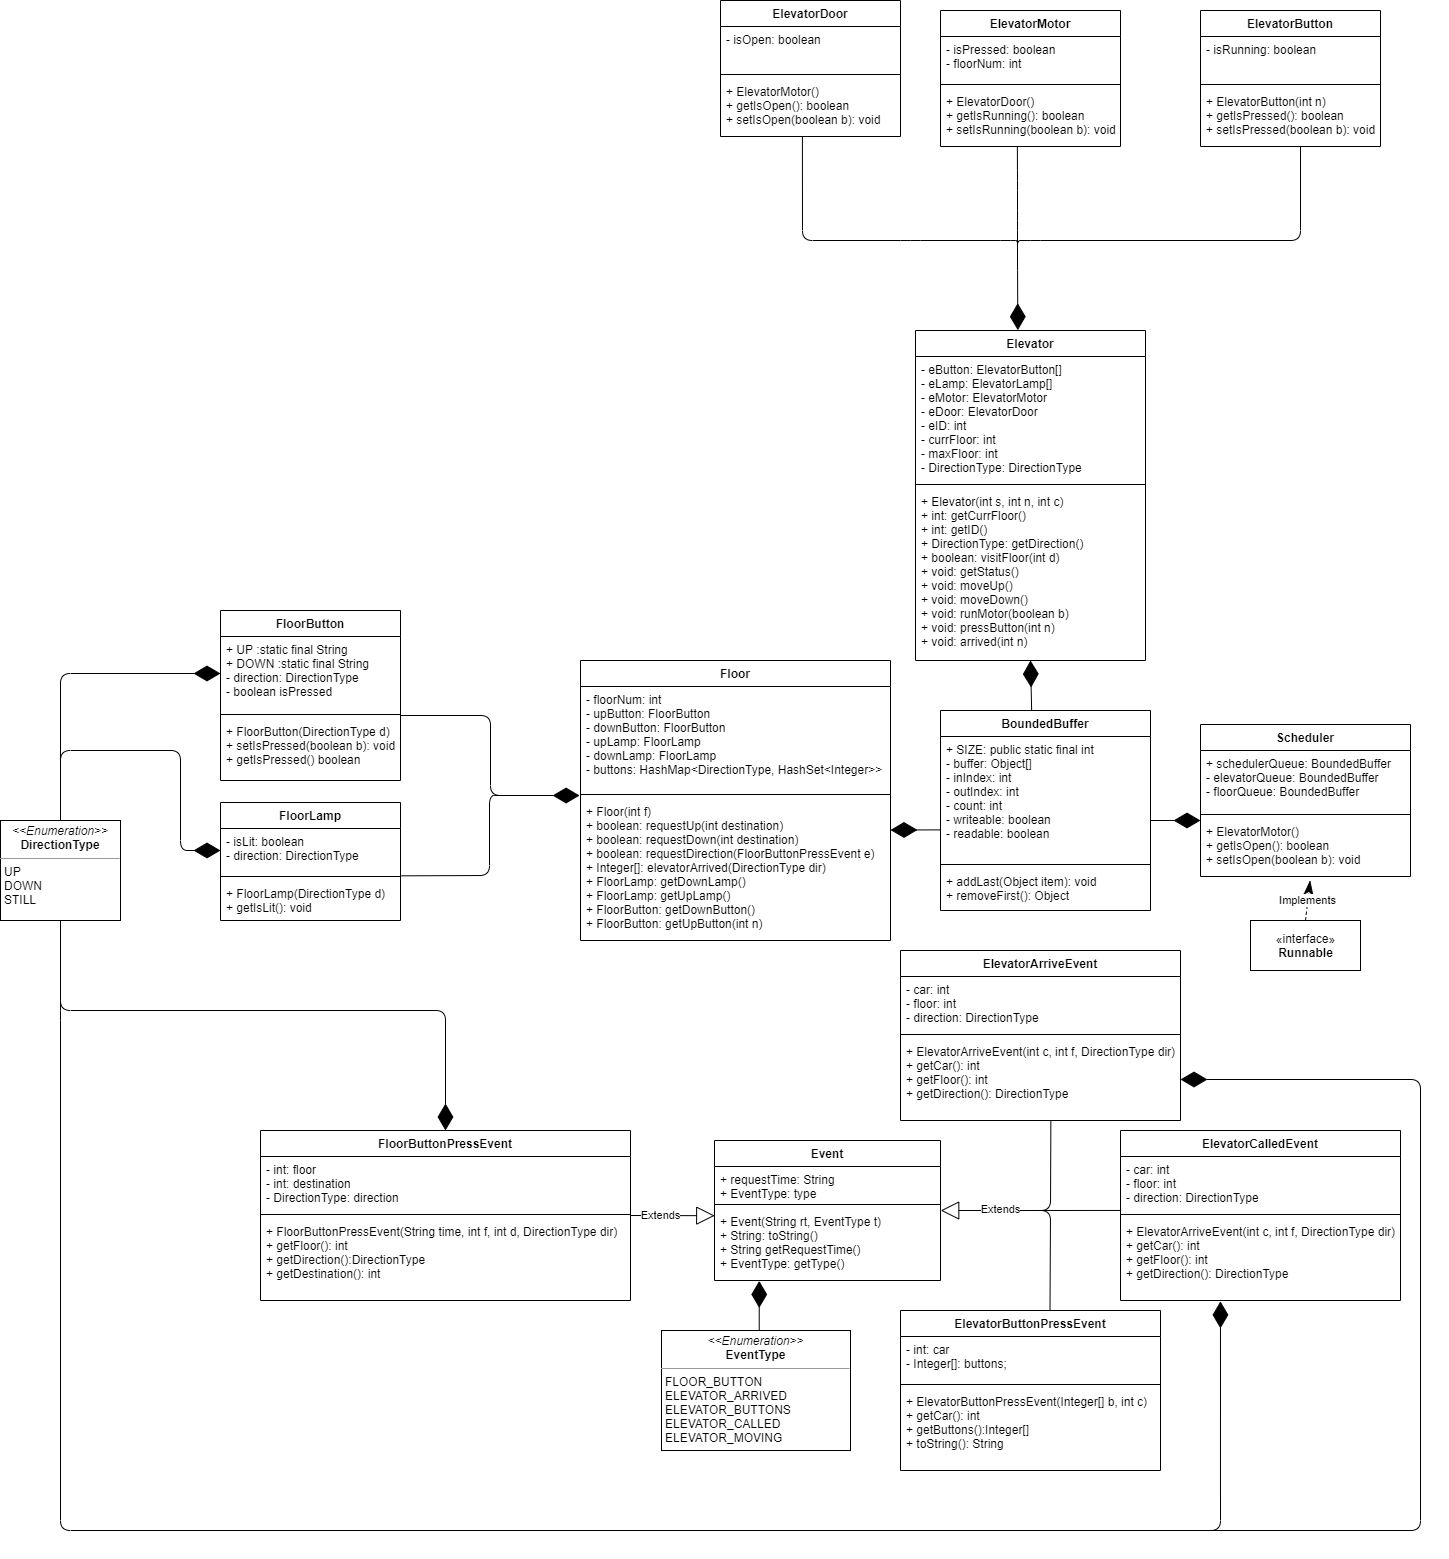
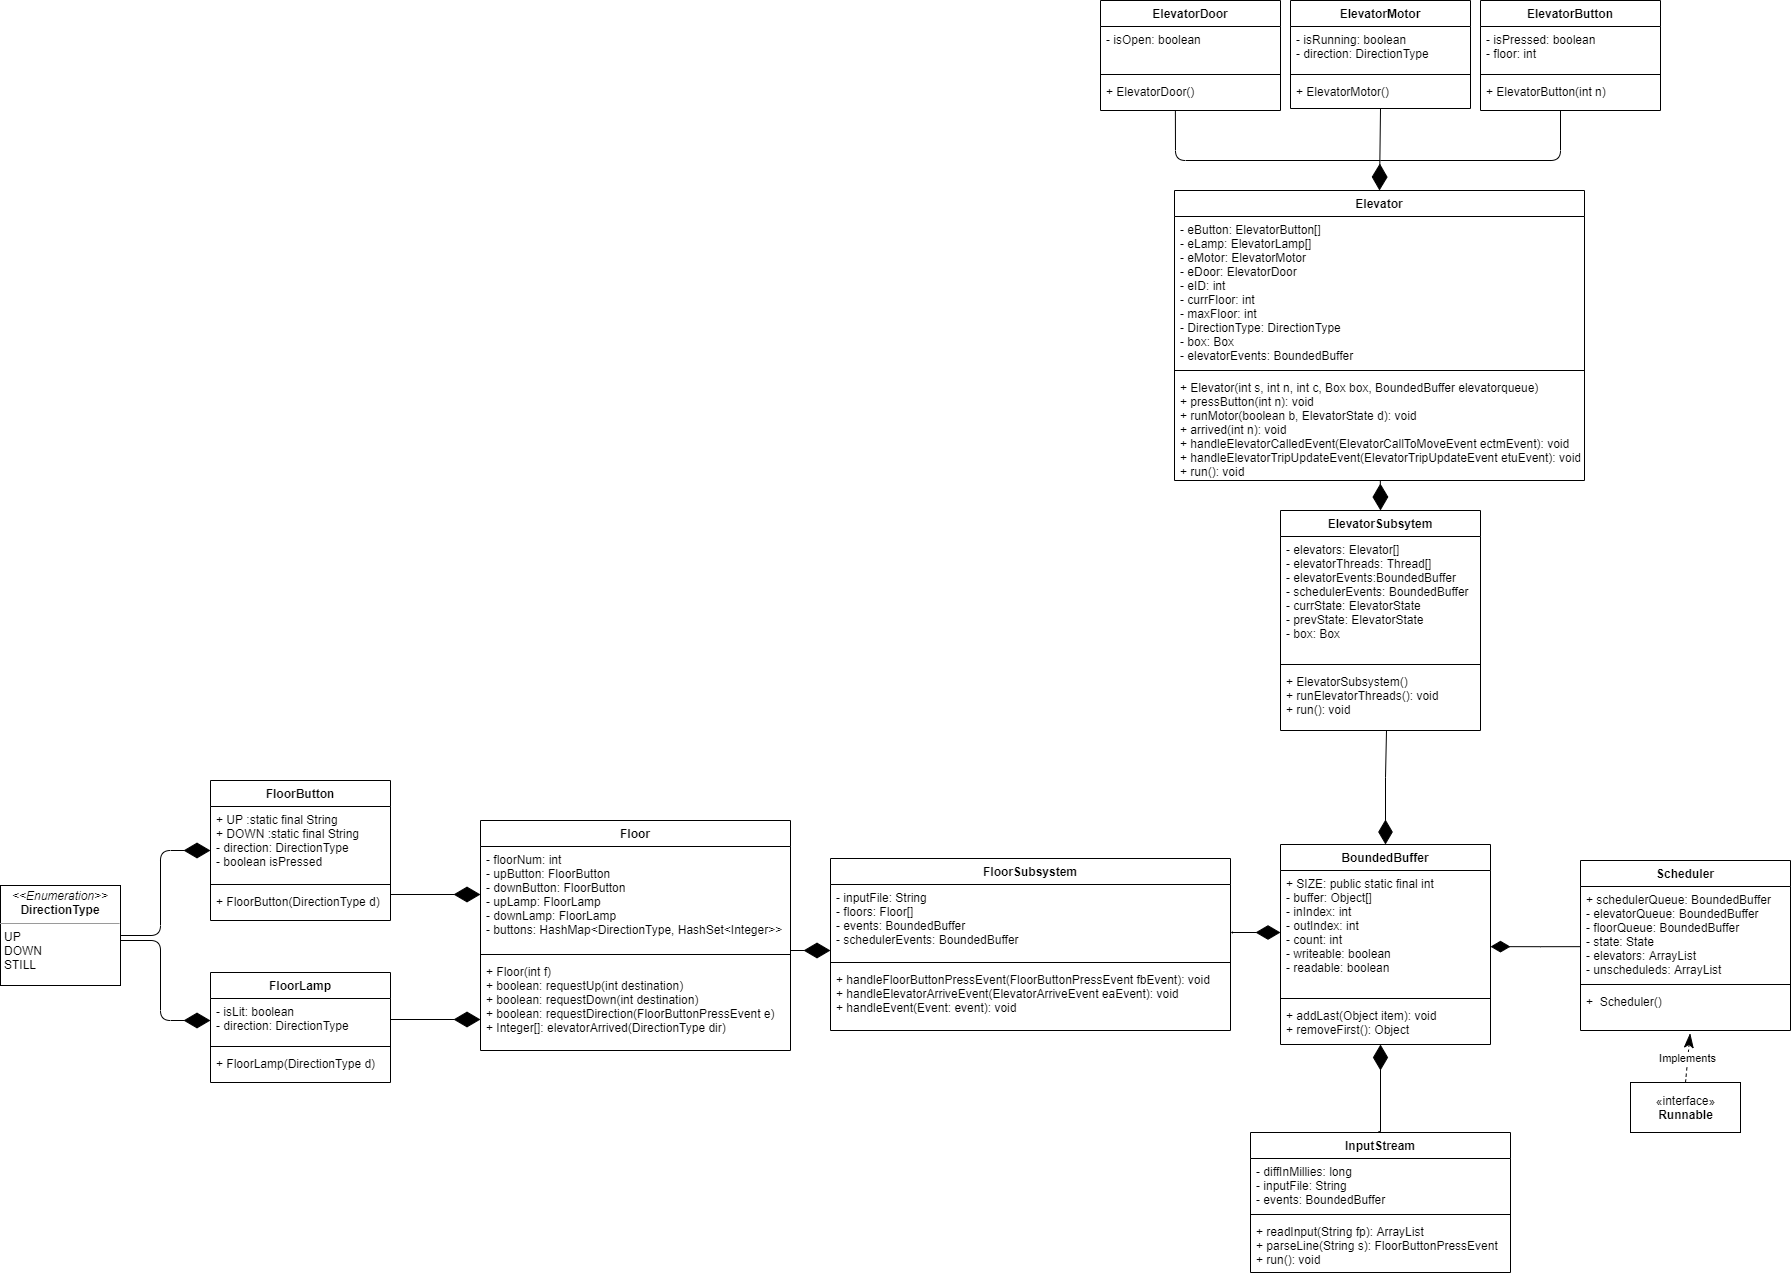
Cleanup

diff --git a/src/main/Project.java b/src/main/Project.java
@@ -6,10 +6,7 @@ import floor.InputStream;
 import scheduler.BoundedBuffer;
 import scheduler.Scheduler;
 
-public class Iteration1 {
-
-    private final static String testFile = "TestComm.txt";
-
+public class Project {
     public static void main(String[] args) {
         //Put threads together and run main
     	BoundedBuffer floorQueue = new BoundedBuffer();
@@ -17,7 +14,7 @@ public class Iteration1 {
     	BoundedBuffer elevatorQueue = new BoundedBuffer();
         
     	// floor get scheduler and floor queues
-        Thread floor = new Thread(new FloorSubsystem(testFile, Configuration.NUM_FLOORS, floorQueue, schedulerQueue), "floor");
+        Thread floor = new Thread(new FloorSubsystem(Configuration.NUM_FLOORS, floorQueue, schedulerQueue), "floor");
         
         // elevator gets scheduler and elevator queues
         Thread elevator = new Thread(new ElevatorSubsystem(Configuration.NUM_CARS, Configuration.NUM_FLOORS,Configuration.INIT_CAR_FLOOR, elevatorQueue, schedulerQueue, new Box()), "elevator");
@@ -26,7 +23,7 @@ public class Iteration1 {
         Thread scheduler = new Thread(new Scheduler(schedulerQueue, elevatorQueue, floorQueue));
         
         // InputStream gets the floors queue
-        Thread inputstream = new Thread(new InputStream(testFile,floorQueue));
+        Thread inputstream = new Thread(new InputStream(Configuration.TEST_FILE, floorQueue));
 
         elevator.start();
         floor.start();

diff --git a/src/floor/FloorSubsystem.java b/src/floor/FloorSubsystem.java
@@ -1,11 +1,6 @@
 package floor;
-import java.io.File;
-import java.io.FileNotFoundException;
-import java.util.ArrayList;
 import java.util.Arrays;
-import java.util.Scanner;
 
-import event.DirectionType;
 import event.ElevatorArriveEvent;
 import event.ElevatorButtonPressEvent;
 import event.Event;
@@ -17,20 +12,17 @@ import scheduler.BoundedBuffer;
  * @author Martin Dimitrov
  */
 public class FloorSubsystem implements Runnable {
-	private String inputFile;
 	private Floor[] floors;
 	private BoundedBuffer events;
 	private BoundedBuffer schedulerEvents;
 	
 	/**
 	 * Create a new FloorSubsystem 
-	 * @param fp - path to input file
 	 * @param n - number of floors
 	 * @param myQueue - floor queue
 	 * @param sQueue - scheduler queue
 	 */
-	public FloorSubsystem(String fp, int n, BoundedBuffer myQueue, BoundedBuffer sQueue) {
-		inputFile = fp;
+	public FloorSubsystem(int n, BoundedBuffer myQueue, BoundedBuffer sQueue) {
 		floors = new Floor[n];
 		events = myQueue;
 		schedulerEvents = sQueue;

diff --git a/src/test/TestSuite.java b/src/test/TestSuite.java
@@ -24,7 +24,7 @@ import java.io.PrintStream;
  */
 
 import elevator.Box;
-class Iteration1Test {
+class TestSuite {
 
     private final static String testFile = "TestComm.txt";
     private Thread floor, elevator, scheduler;
@@ -38,7 +38,7 @@ class Iteration1Test {
 
 
         // floor get scheduler and floor queues
-        floor = new Thread(new FloorSubsystem(testFile, Configuration.NUM_FLOORS, floorQueue, schedulerQueue), "floor");
+        floor = new Thread(new FloorSubsystem(Configuration.NUM_FLOORS, floorQueue, schedulerQueue), "floor");
 
         // elevator gets scheulder and elevator queues
         elevator = new Thread(new ElevatorSubsystem(Configuration.NUM_CARS, Configuration.NUM_FLOORS,Configuration.INIT_CAR_FLOOR, elevatorQueue, schedulerQueue, new Box()), "elevator");

diff --git a/src/test/StateMachineTest.java b/src/test/StateMachineTest.java
@@ -39,7 +39,7 @@ class StateMachineTest {
         Configuration.VERBOSE = true;
 
         // floor get scheduler and floor queues
-        floor = new Thread(new FloorSubsystem(testFile, Configuration.NUM_FLOORS, floorQueue, schedulerQueue), "floor");
+        floor = new Thread(new FloorSubsystem(Configuration.NUM_FLOORS, floorQueue, schedulerQueue), "floor");
 
         // elevator gets scheduler and elevator queues
         elevator = new Thread(new ElevatorSubsystem(Configuration.NUM_CARS, Configuration.NUM_FLOORS,Configuration.INIT_CAR_FLOOR, elevatorQueue, schedulerQueue, new Box()), "elevator");

diff --git a/src/test/ElevatorSubsystemTest.java b/src/test/ElevatorSubsystemTest.java
@@ -43,7 +43,7 @@ class ElevatorSubsystemTest {
 
 
         // floor get scheduler and floor queues
-        floor = new Thread(new FloorSubsystem(testFile, Configuration.NUM_FLOORS, floorQueue, schedulerQueue), "floor");
+        floor = new Thread(new FloorSubsystem(Configuration.NUM_FLOORS, floorQueue, schedulerQueue), "floor");
 
         // elevator gets scheulder and elevator queues
         elevator = new Thread(new ElevatorSubsystem(Configuration.NUM_CARS, Configuration.NUM_FLOORS,Configuration.INIT_CAR_FLOOR, elevatorQueue, schedulerQueue, new Box()), "elevator");

diff --git a/src/test/FloorSubsystemTest.java b/src/test/FloorSubsystemTest.java
@@ -27,7 +27,7 @@ public class FloorSubsystemTest {
 
     @BeforeEach
     public void setUp() {
-        floorSubsystem = new FloorSubsystem("Test.txt", Configuration.NUM_FLOORS, new BoundedBuffer(), new BoundedBuffer());
+        floorSubsystem = new FloorSubsystem(Configuration.NUM_FLOORS, new BoundedBuffer(), new BoundedBuffer());
     }
 
     @Test

diff --git a/src/main/Configuration.java b/src/main/Configuration.java
@@ -20,5 +20,8 @@ public abstract class Configuration {
 	//Time from floor to floor (Numbers from Iteration 0) in ms
 	public static final long LOAD_TIME = 1000; //9.51323 actual but using 1s for testing
 	public static final long TRAVEL_TIME_BETWEEN_FLOOR = 9500; //~9.5s
+	
+	// test file
+	public static final String TEST_FILE = "TestComm.txt";
 
 }
